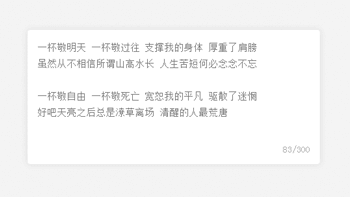
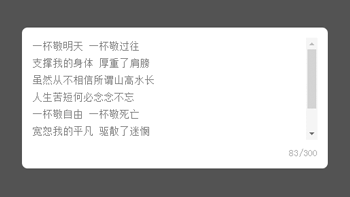
a

diff --git a/res/code/004/css/index.css b/res/code/004/css/index.css
@@ -11,17 +11,15 @@
 }
 
 body {
-    background: #eee;
+    background: #333;
 }
 
 div {
-    border: 1px solid #ddd;
-    border-radius: 5px;
+    border-radius: 8px;
     width: 420px;
     margin: 80px auto;
     padding: 15px;
     background: #fff;
-    box-shadow: 0px 0px 15px rgba(0, 0, 0, 0.1);
 }
 
 textarea {
